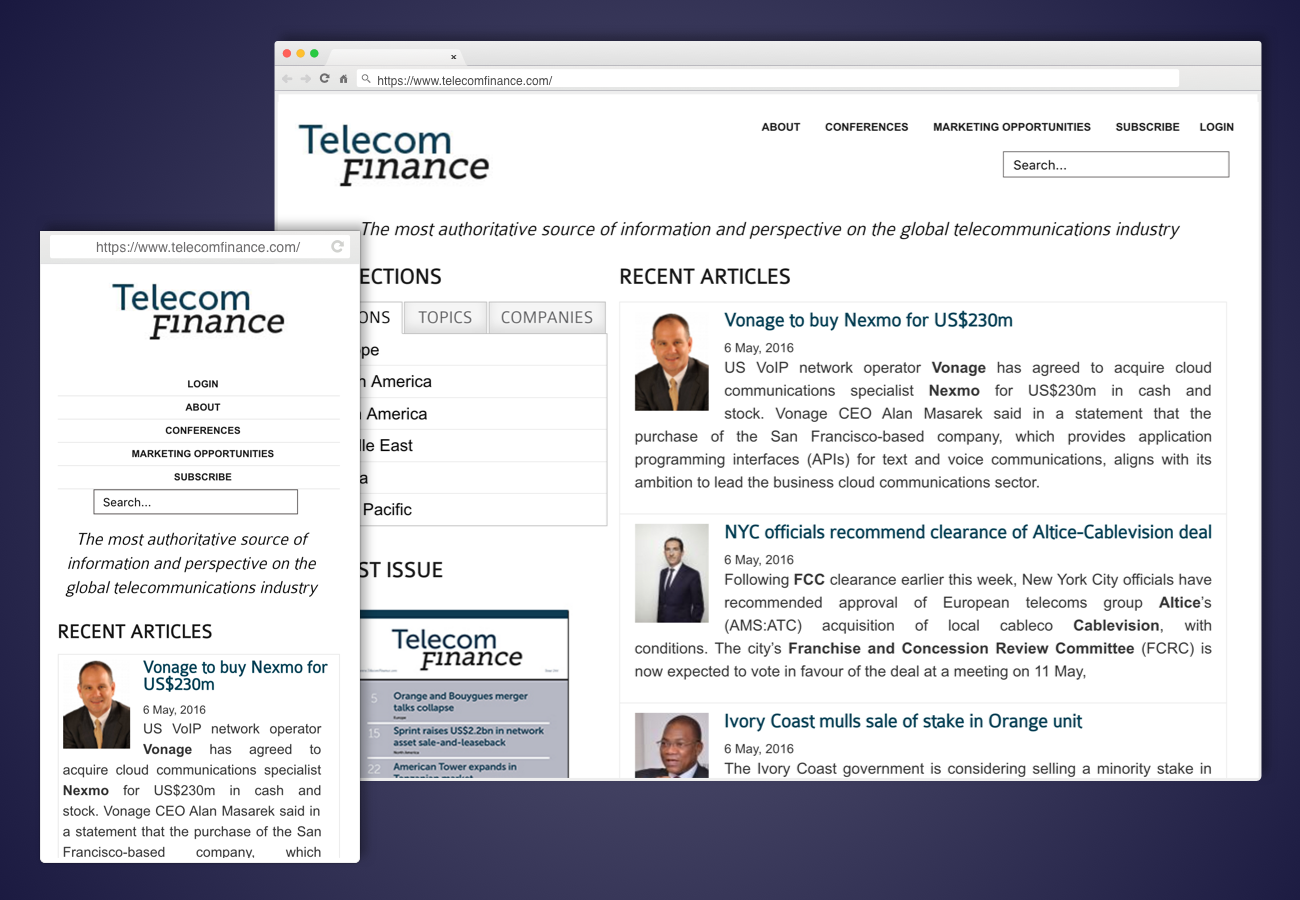
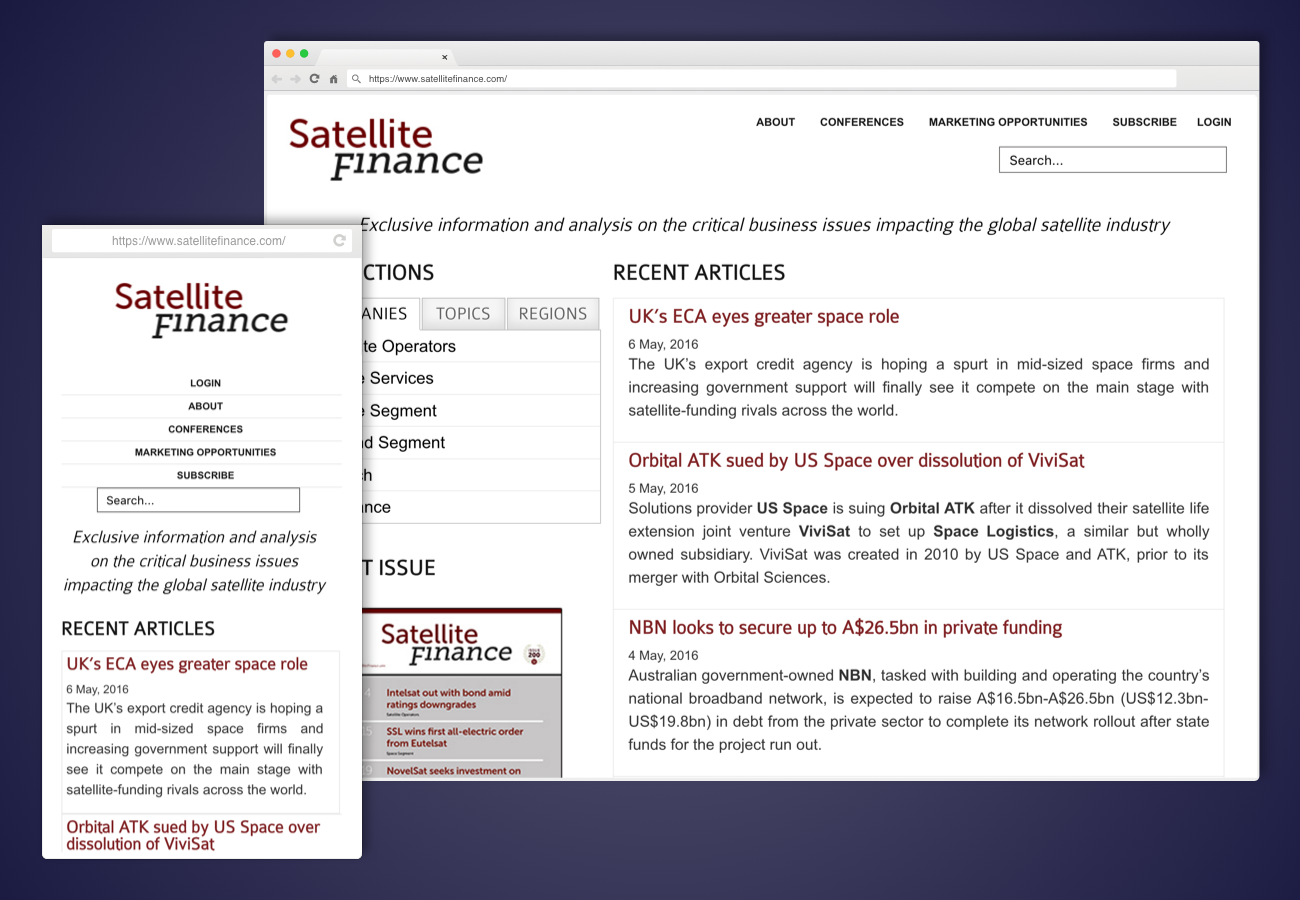
Issue #1152: switch images and update copy

Changed region(s): [[0.0308, 0.0311, 0.9538, 0.8711], [0.0308, 0.4044, 0.2769, 0.9644], [0.5846, 0.1244, 0.9538, 0.2178]]

diff --git a/_case-studies/transaction-advisors-case-study.md b/_case-studies/transaction-advisors-case-study.md
@@ -12,11 +12,11 @@ client_dates: 2014 - present
 project_description: |
   When Transaction Advisors acquired two related websites, Savas Labs helped integrate those sites into their existing Drupal 7 infrastructure, providing responsive theming, subscription access, and a single administrative interface for all three sites.
 project_objective: |
-  After Transaction Advisors acquired two related publications (SatelliteFinance and TelecomFinance), it was important that they be able to easily manage all three websites from a single administrative interface. For branding purposes, they wanted a similar look and feel across the three sites. Lastly, it was critical to offer users online subscription access to each site’s paywall protected content.
+  After Transaction Advisors acquired two related publications (SatelliteFinance and TelecomFinance), they needed to easily manage all three websites from a single administrative interface. For branding purposes, they wanted a similar look and feel across the three sites. Lastly, it was critical to offer users online subscription access to each site’s paywall-protected content.
 project_process: |
-  Savas Labs integrated the two new sites with the existing Transaction Advisors Drupal 7 installation and database using the Drupal Domain Access module. This allowed each site to have its own domain name and theme while providing a single administrative interface for all three. We leveraged our previous experience theming Transaction Advisors to theme the new SatelliteFinance and TelecomFinance sites in a responsive way so that they worked on all devices. For easy subscription management and access to paywall restricted content we integrated [Stripe](https://stripe.com/) via a custom module. Lastly, we used the Drupal Feeds module to import all content from the two legacy sites before going live.
+  We integrated the two new sites with the existing Transaction Advisors Drupal 7 installation and database using the Drupal Domain Access module, allowing each site to have its own domain name and theme while providing a single administrative interface. We extended the Transaction Advisors theme to the SatelliteFinance and TelecomFinance sites in a responsive way so that they worked on all devices. For easy subscription management and access to paywall restricted content we integrated [Stripe](https://stripe.com/) via a custom module. The Drupal Feeds module allowed us to import all content from the two legacy sites before going live.
 project_results: |
-  Thanks to an agile approach in which we worked closely with our clients, the new sites launched in time for an important conference, the administrative burden from running three separate websites was reduced, and both customers and the business felt the benefit of easy to manage subscriptions.
+  Thanks to an agile approach in which we worked closely with our client, the new sites launched in time for an important conference, the administrative burden from running three separate websites was reduced, and both the customers and the business felt the benefit of easy to manage subscriptions.
 services_provided: |
   - [Responsive design](/blog/tag/front-end-dev/)
   - [Drupal theme development](/blog/tag/theming/)
